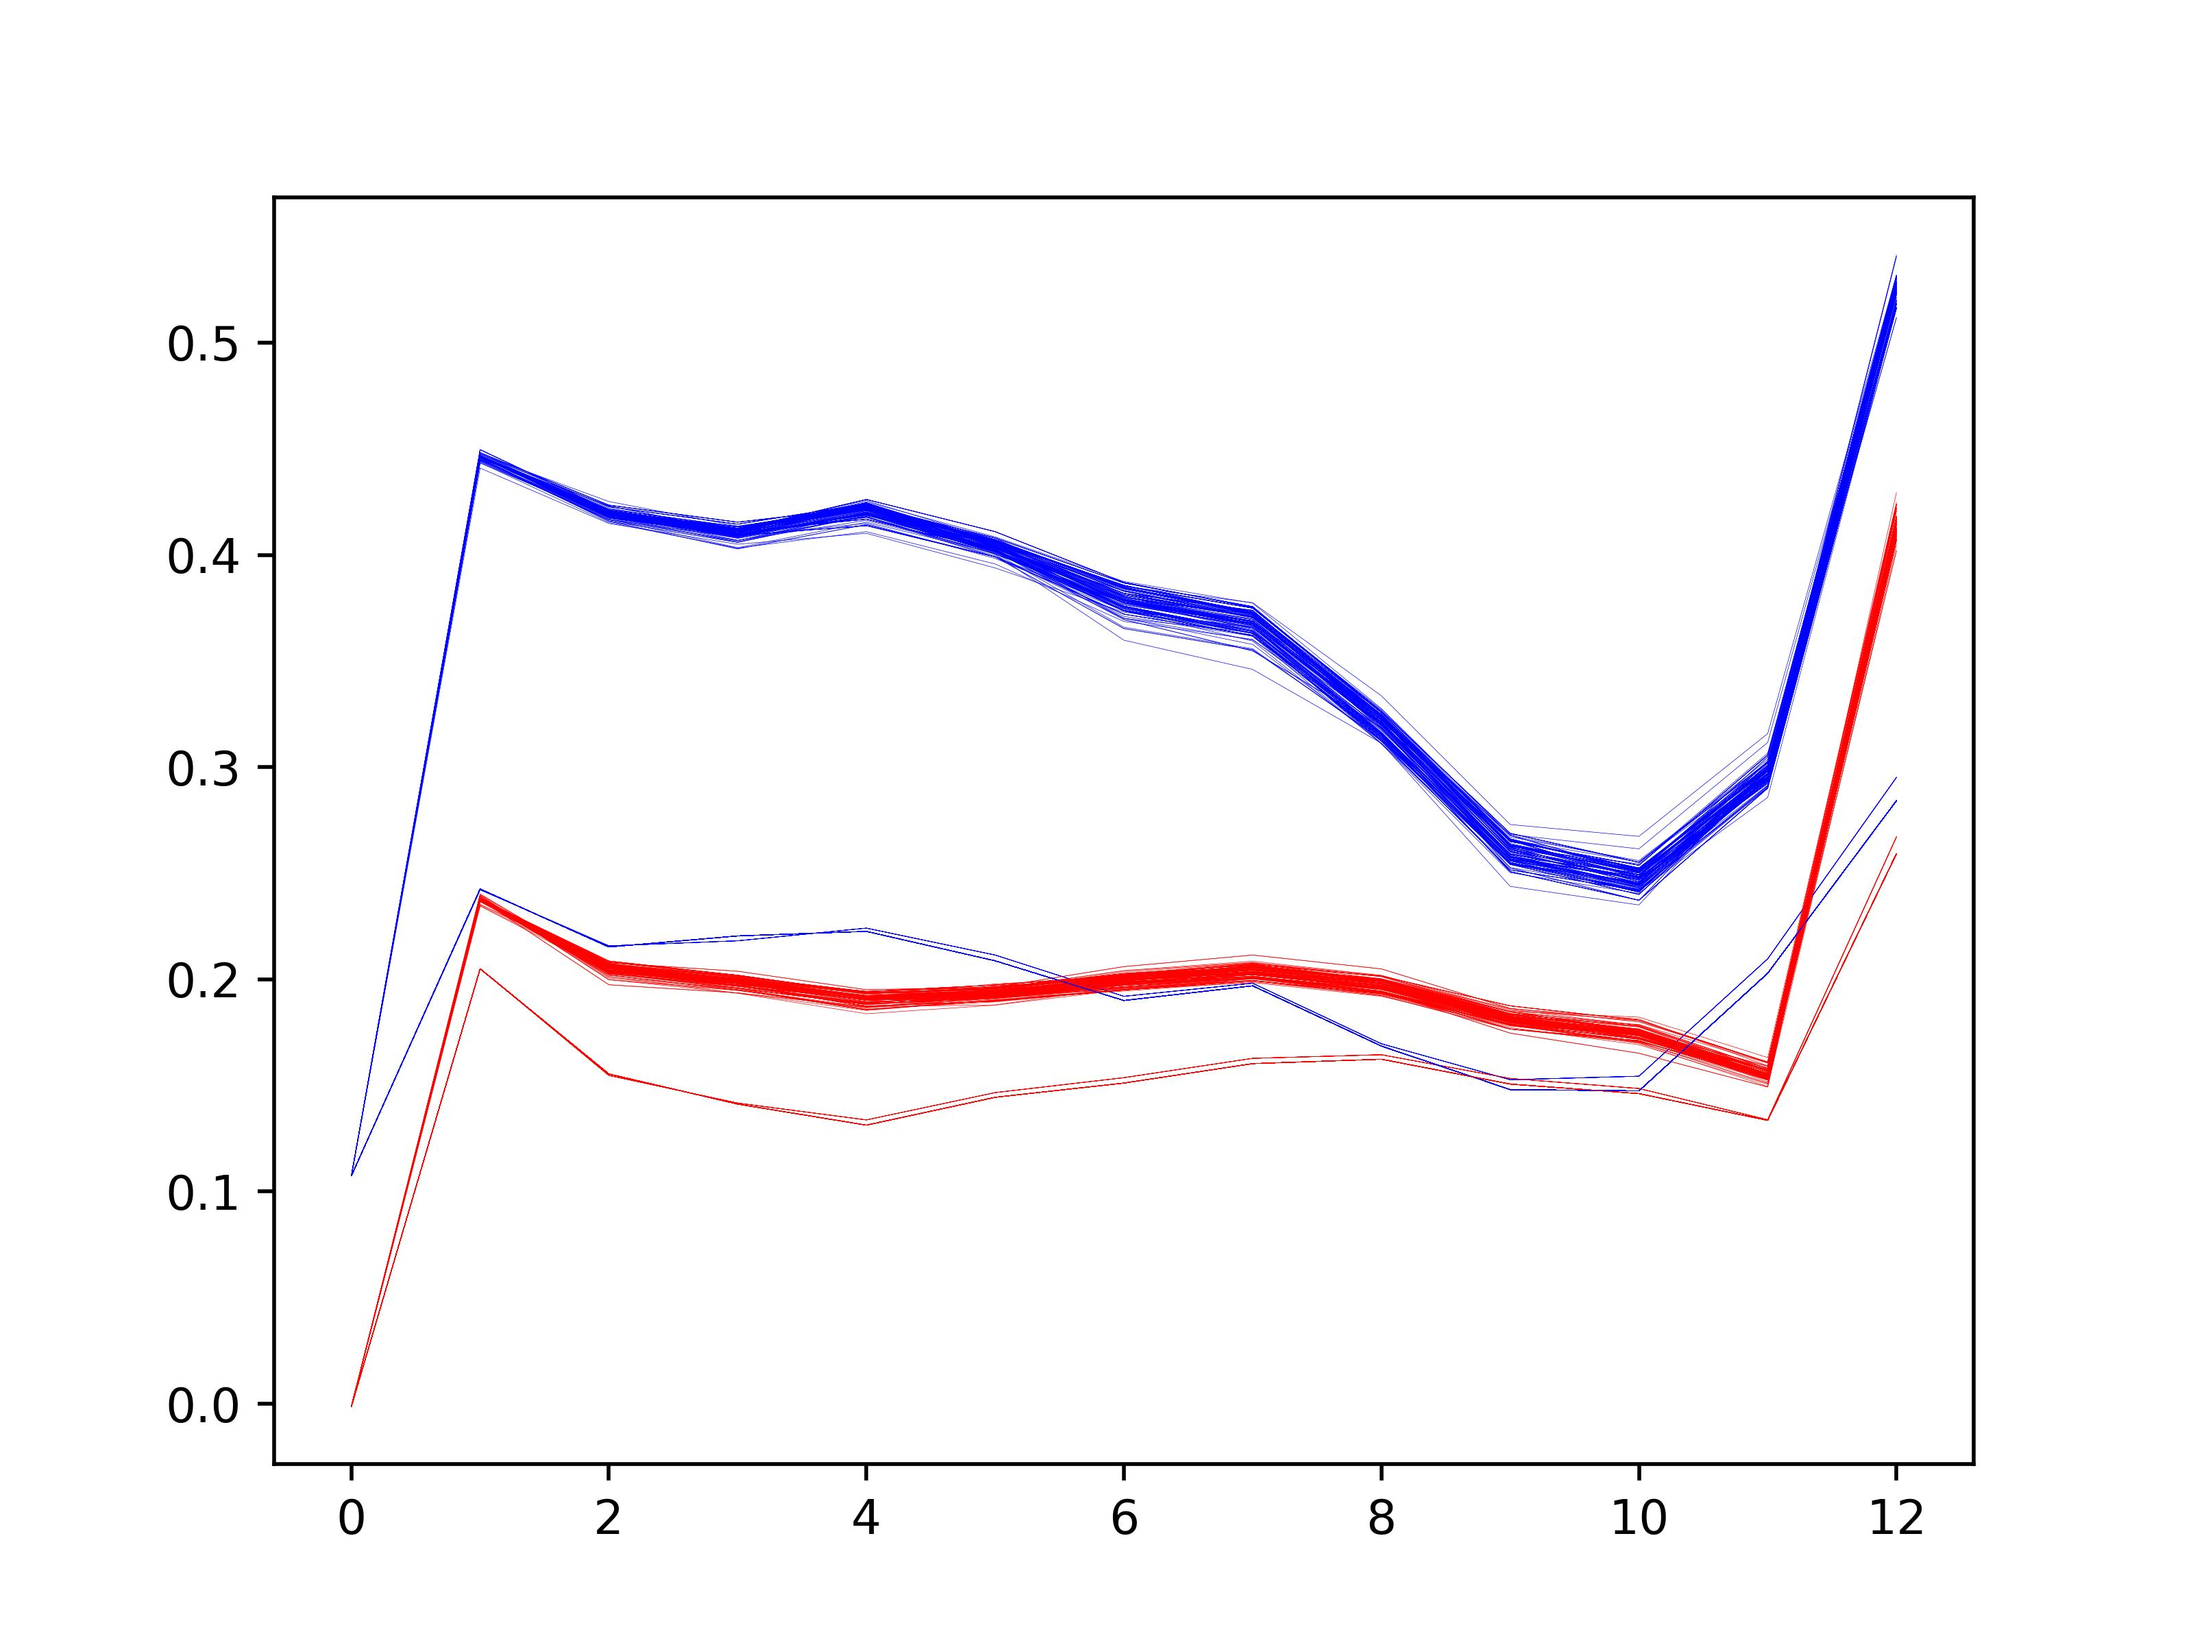
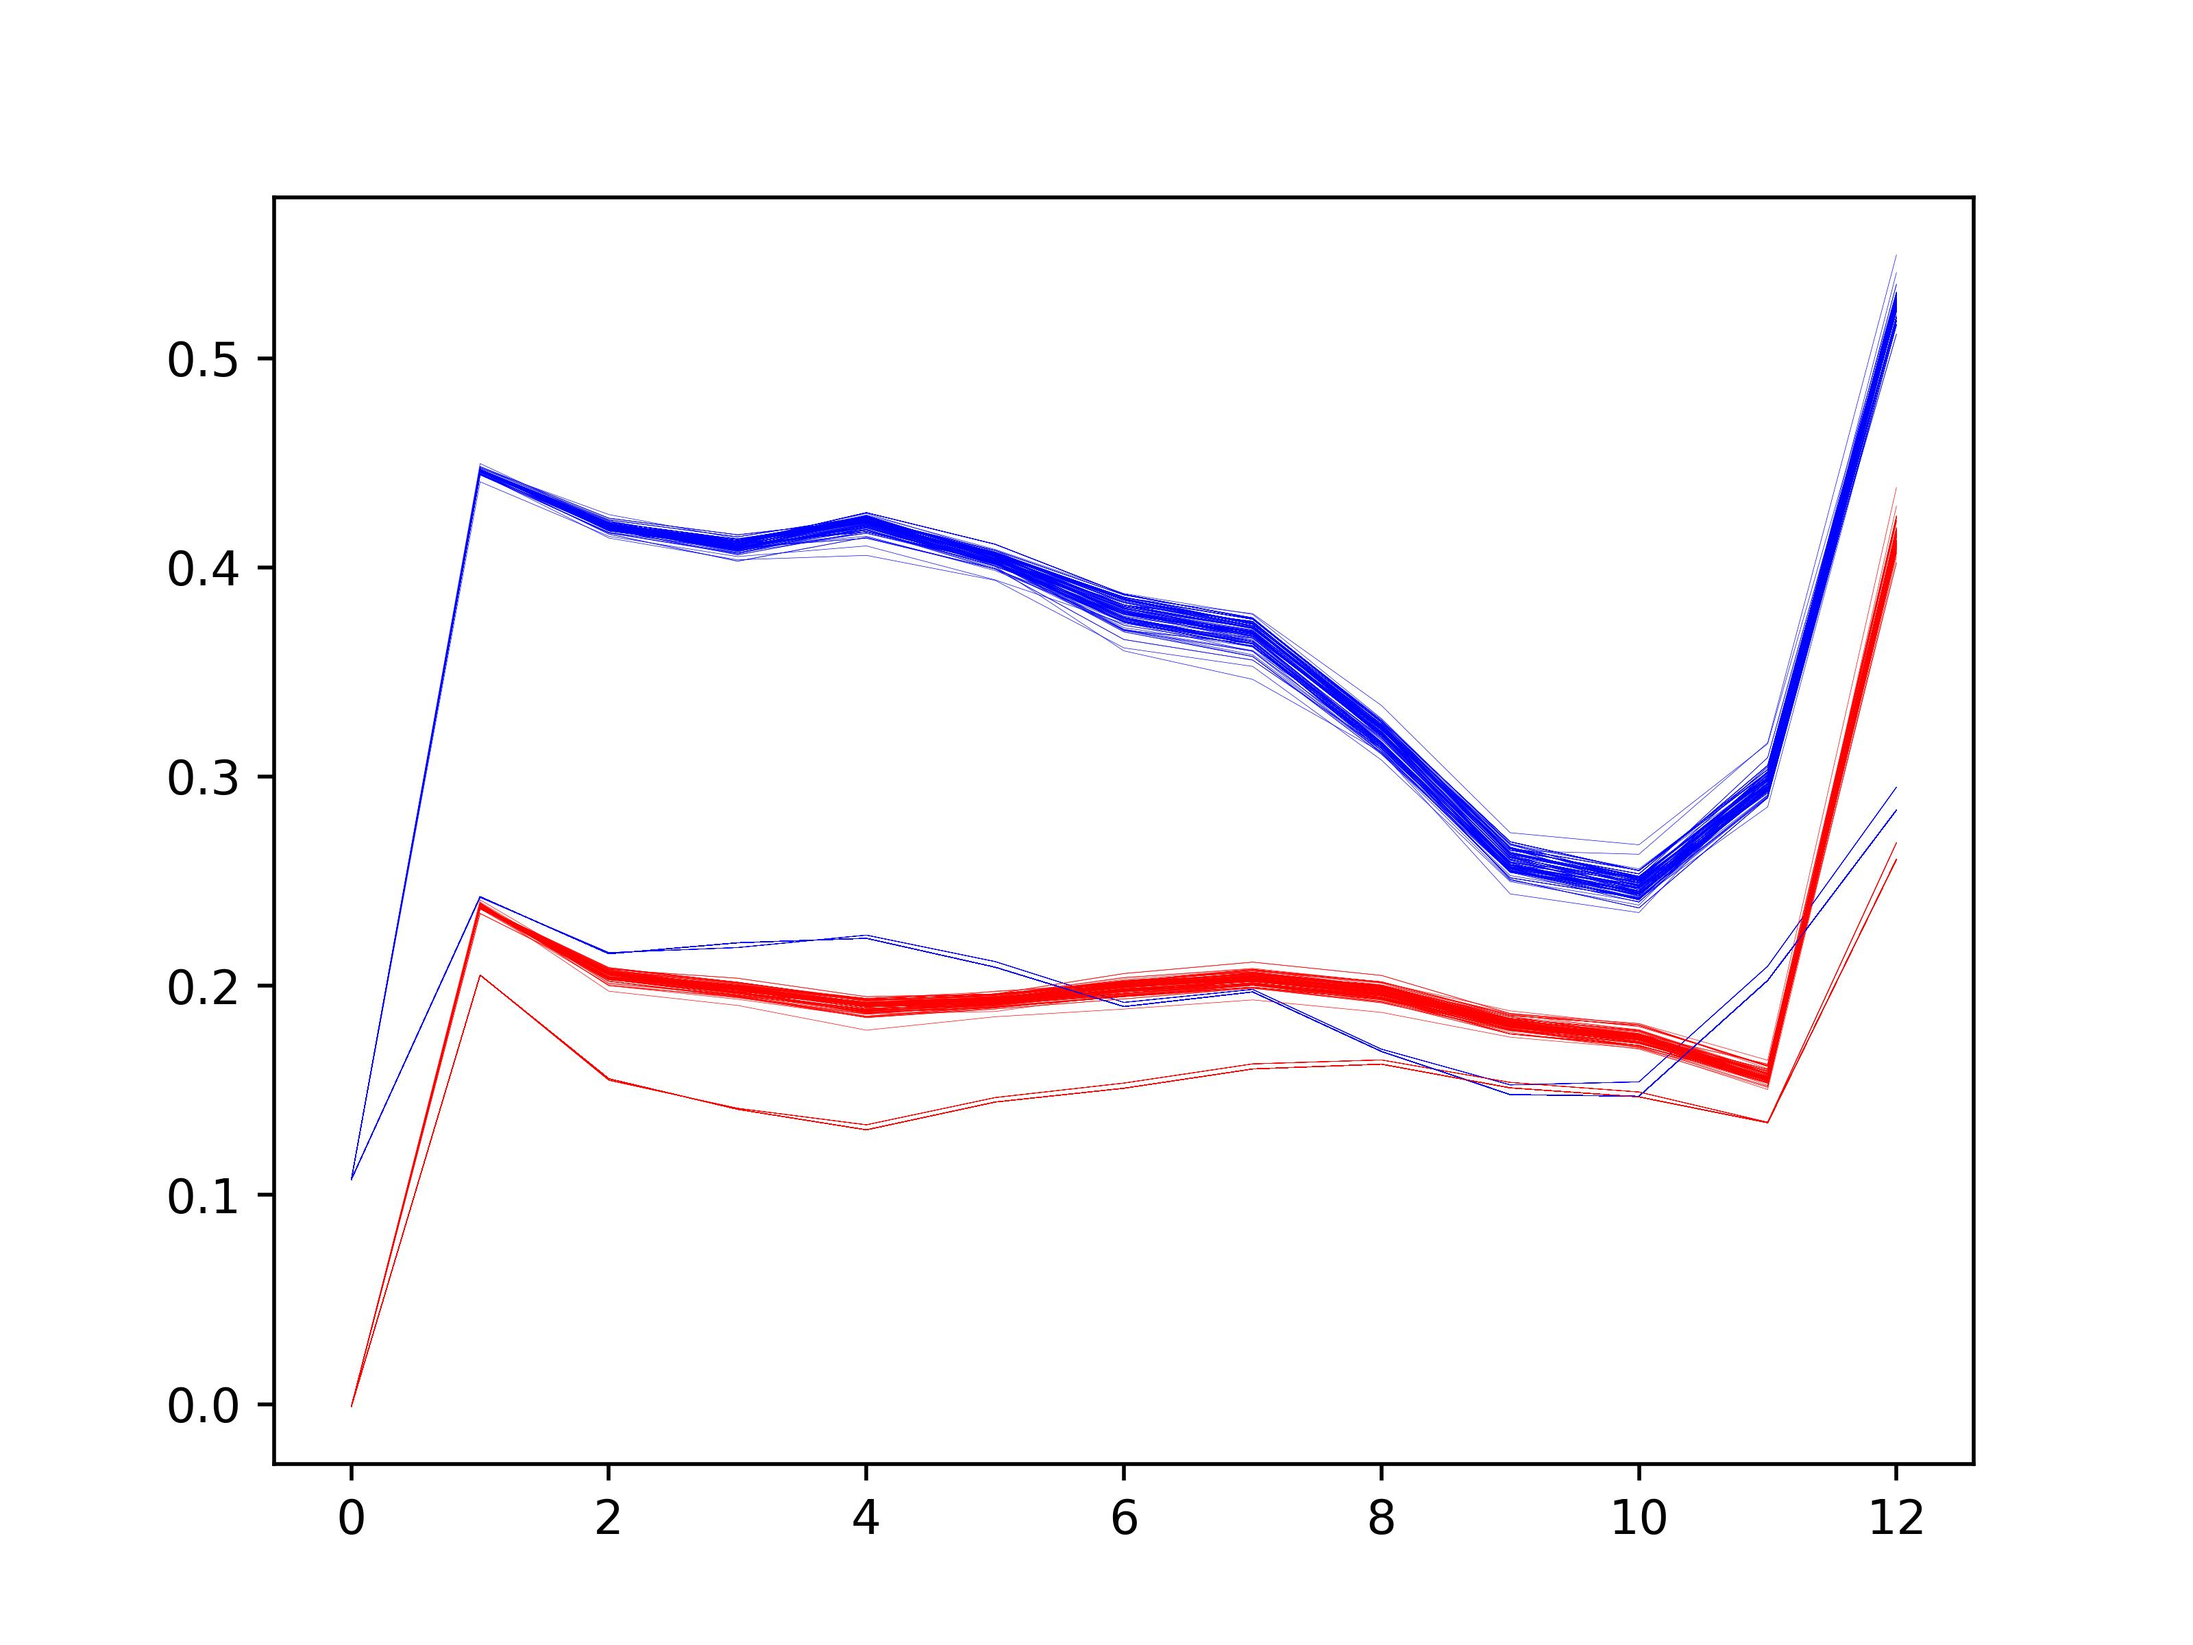
update

diff --git a/assets/modeling_clip.py b/assets/modeling_clip.py
@@ -262,6 +262,7 @@ class CLIPAttention(nn.Module):
         # print(self.num_heads,'self.num_heads') # 12
         if is_keyword_tokens1 is not None:
             print(is_keyword_tokens1.shape,'is_keyword_tokens1.shape')
+            print(is_keyword_tokens2.shape,'is_keyword_tokens2.shape')
         bsz, tgt_len, embed_dim = hidden_states.size()
         # print(hidden_states.shape,'hidden_states.shape')
         # get query proj
@@ -301,10 +302,10 @@ class CLIPAttention(nn.Module):
                 )
             attn_weights = attn_weights.view(bsz, self.num_heads, tgt_len, src_len) + attention_mask
             attn_weights = attn_weights.view(bsz * self.num_heads, tgt_len, src_len)
-        # print(attn_weights.shape,'attn_weights.shape')
-        # torch.Size([4800, 77, 77]) attn_weights.shape1
+        # HERE
+        print(attn_weights.shape,'attn_weights.shape')
+        # HERE
         attn_weights = nn.functional.softmax(attn_weights, dim=-1)
-        # torch.Size([4800, 77, 77]) attn_weights.shape2
 
 
         if output_attentions:
@@ -317,9 +318,9 @@ class CLIPAttention(nn.Module):
         else:
             attn_weights_reshaped = None
 
+
+        
         attn_probs = nn.functional.dropout(attn_weights, p=self.dropout, training=self.training)
-        # print(attn_probs.shape,'attn_probs.shape')
-        # print(value_states.shape,'value_states.shape')
         attn_output = torch.bmm(attn_probs, value_states)
 
         if attn_output.size() != (bsz * self.num_heads, tgt_len, self.head_dim):

diff --git a/text_encoder_analysis.py b/text_encoder_analysis.py
@@ -529,6 +529,7 @@ def main():
                 plt.plot(xpoints,nonkey_sims, 'r',linewidth=0.1)
                 count+=1
             plt.savefig('simcurve.jpg',dpi=500)
+            break
     # Create the pipeline using the trained modules and save it.
     accelerator.wait_for_everyone()
     accelerator.end_training()
